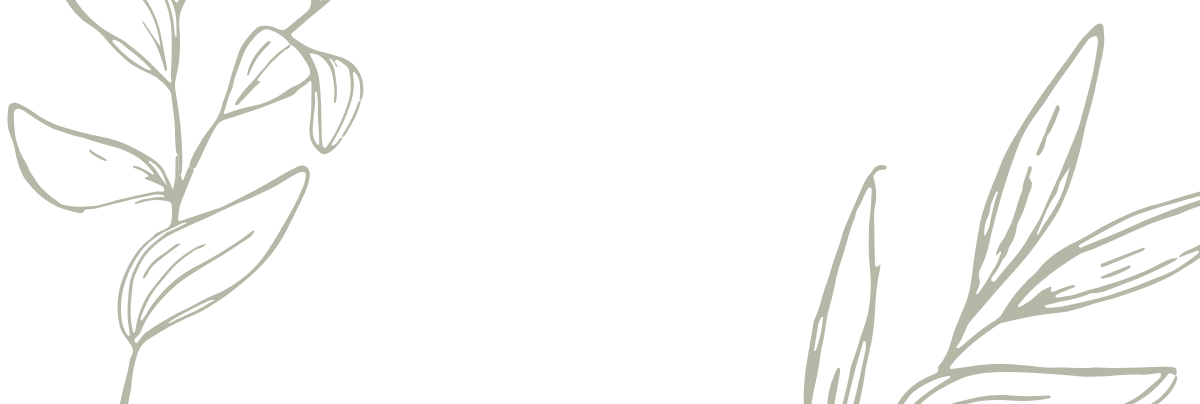
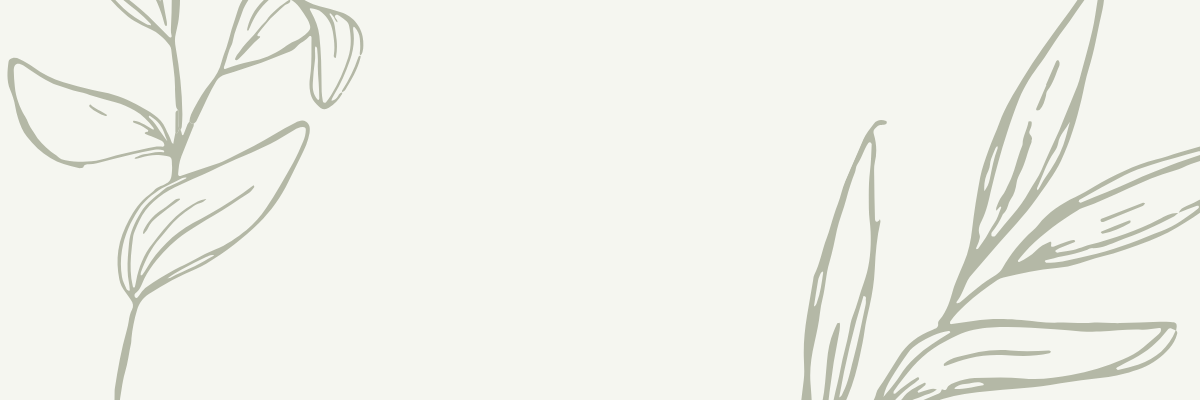
Commit message

Changed region(s): [[0.6475, 0.0, 1.0, 1.0], [0.0, 0.0, 0.3083, 1.0]]

diff --git a/src/App.jsx b/src/App.jsx
@@ -40,16 +40,20 @@ const App = () => {
   // Remember to store AND update
   const [animation, setAnimation] = useState(false);
   const handleAnimation = () => {
-    setAnimation(false);
-  };
-
-  const [mode, setMode] = useState("light");
-  const handleModeChange = () => {
-    setMode(mode = "light");
+  setAnimation(false);
   };
 
   const titles = [...new Set(profiles.map((profile) => profile.title))];
   const [title, setTitle] = useState("");
+  
+  /*useEffect(() => {
+    fetch("https...")
+    .then((res) => res.json())
+    .then((data) => {
+      console.log(data)
+});
+  
+  });*/
   const handleTitleChange = (event) => {
     setTitle(event.target.value);
     setAnimation(true);
@@ -80,7 +84,7 @@ const App = () => {
   return (
     <>
       <header>
-        <Navbar mode={mode} updateMode={handleModeChange}/>
+        <Navbar />
       </header>
         <Wrapper>
           <Banner />

diff --git a/src/components/Banner.jsx b/src/components/Banner.jsx
@@ -4,7 +4,7 @@ const Banner = () => {
     return (
         <div className = "banner-container">
         <h1>Ren Lagman</h1>
-        <h2> B.S. Computer Graphicss Technology</h2>
+        <h2> B.S. Computer Graphics Technology</h2>
         <p> Major in Data Visualization <br /> Minor in Computer and Information Technology</p>
       </div>
     );

diff --git a/src/styles/variables.css b/src/styles/variables.css
@@ -2,7 +2,7 @@
 body{
     /* color scheme */
     --primary-background-color: #b4b8a6;
-    --third-background-color: #f5f6f0;
+    --third-background-color: #fff;
     --text-color: #191a1a;
     --button-background-color: #f5f6f0;
     --button-text-color: #000;
